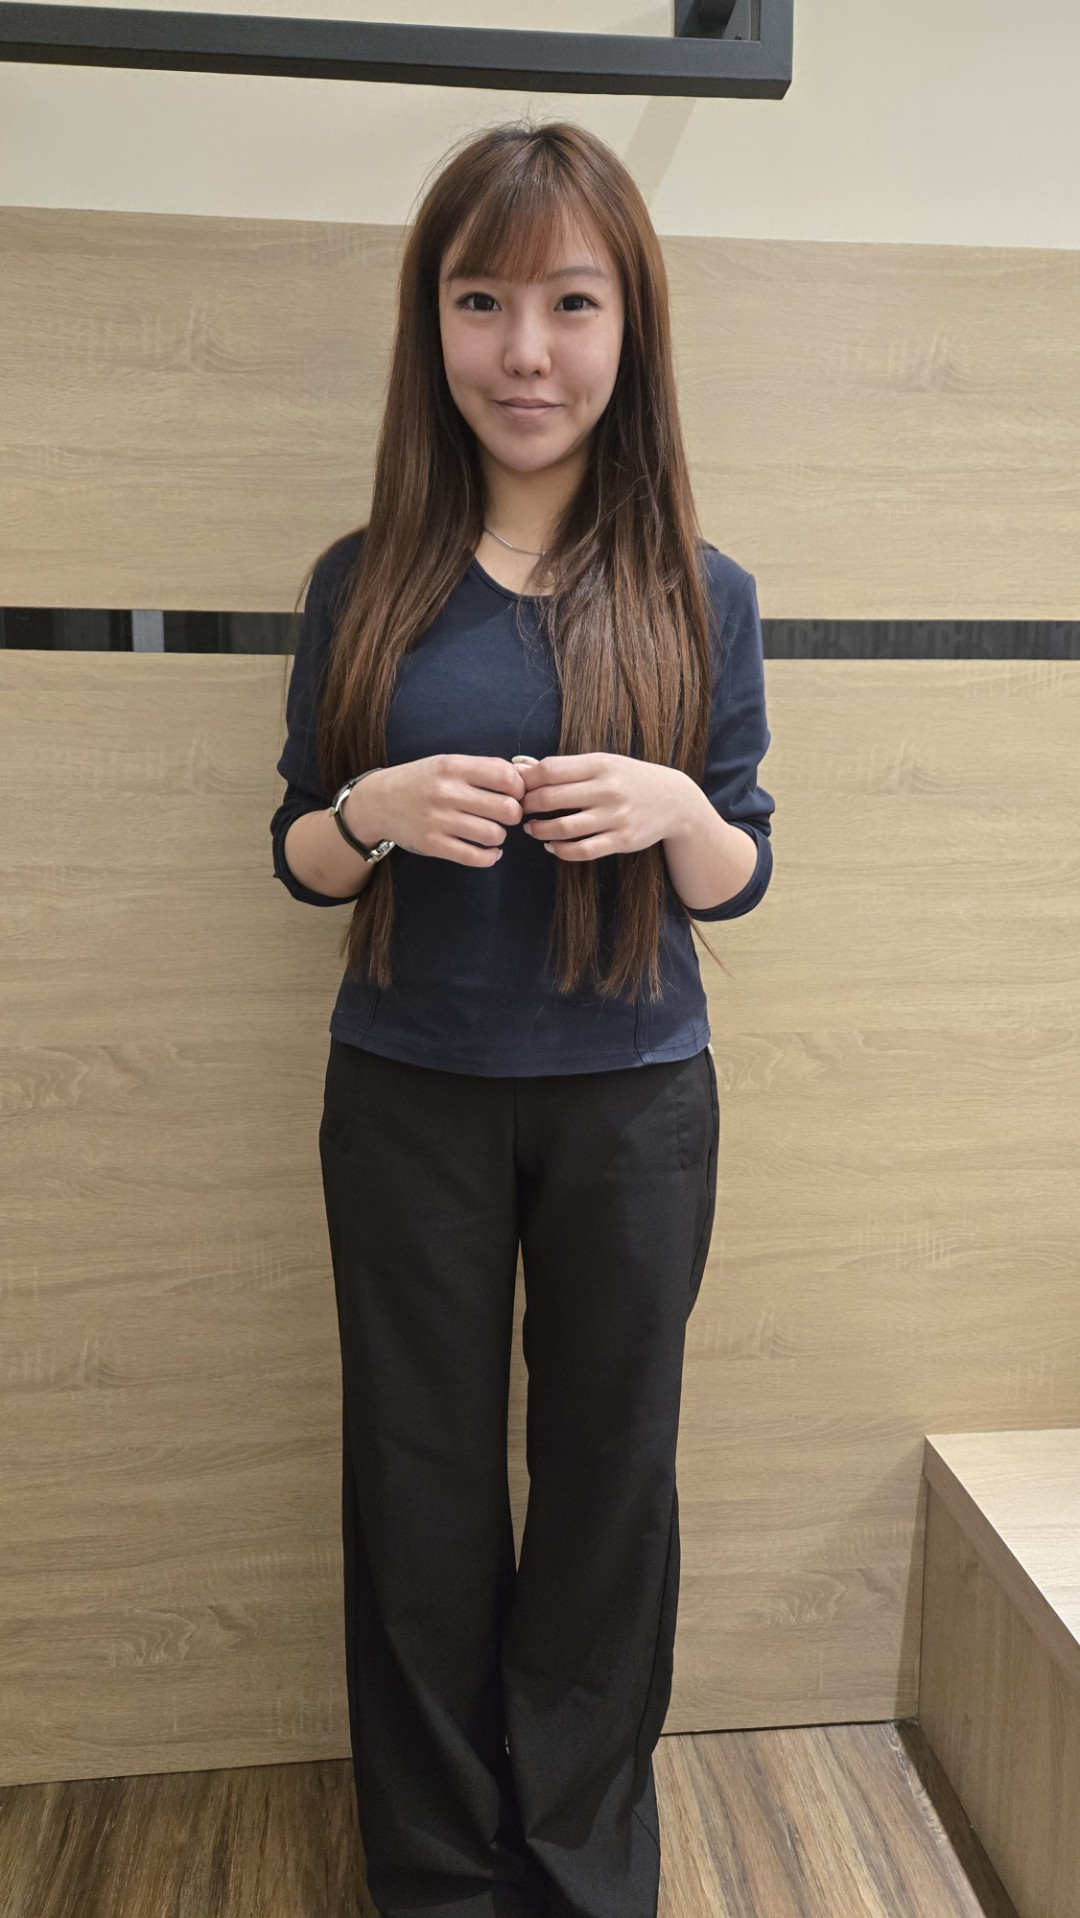
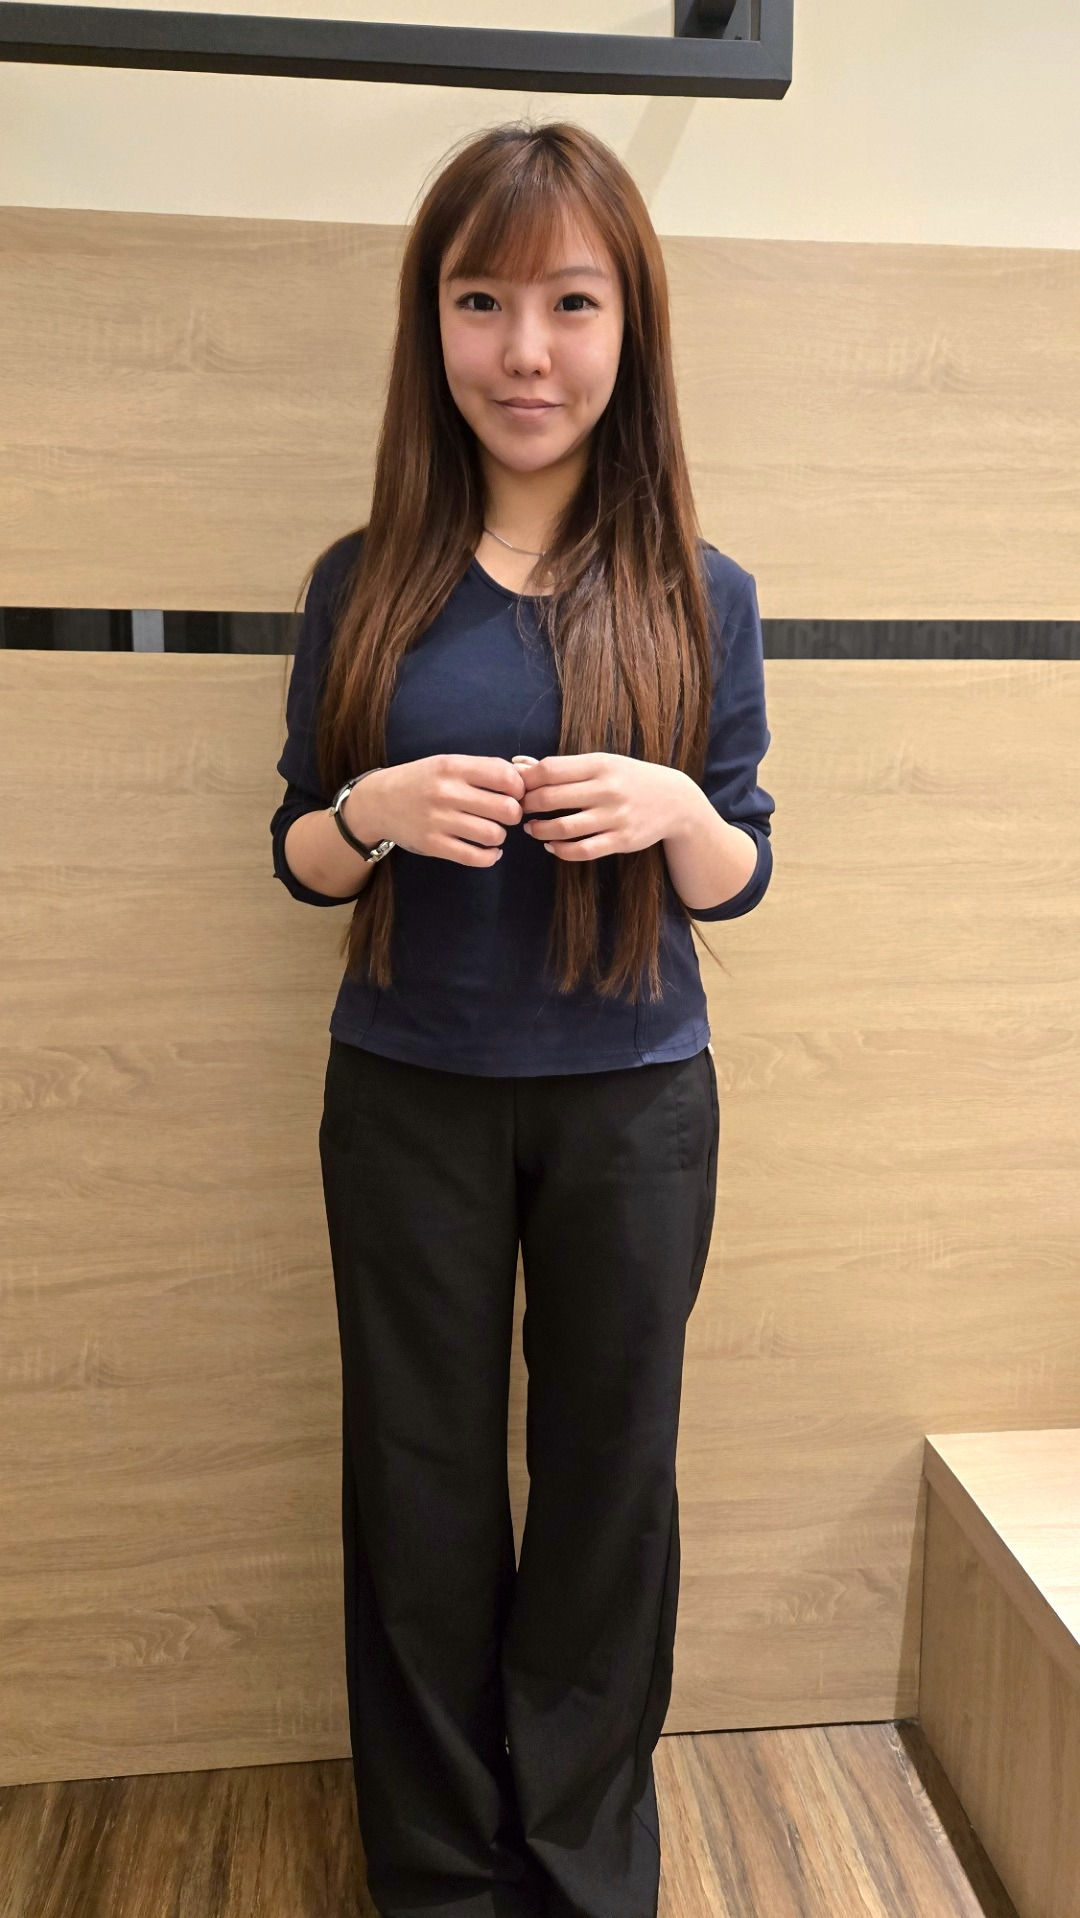
fix: real WhatsApp 85254835368, Glo Glo photos full-color + beautified (drop duotone on portraits)

diff --git a/src/pages/Home.tsx b/src/pages/Home.tsx
@@ -46,7 +46,7 @@ function mapDbProduct(p: {
  */
 
 // TODO: 換返 RedCode 真 WhatsApp 號碼
-const WHATSAPP_URL = 'https://wa.me/85200000000';
+const WHATSAPP_URL = 'https://wa.me/85254835368';
 const FACEBOOK_URL = 'https://www.facebook.com/redcodexhk';
 const FB_PAGE_PLUGIN =
   'https://www.facebook.com/plugins/page.php?href=https%3A%2F%2Fwww.facebook.com%2Fredcodexhk&tabs=timeline&small_header=false&adapt_container_width=true&hide_cover=false&show_facepile=true&locale=zh_HK';
@@ -305,8 +305,8 @@ export default function Home() {
         <div ref={picksRef} className="reveal">
           <SectionHeading en="Tonight's Picks" zh="今晚精選" />
           <div className="mt-8 grid gap-6 lg:grid-cols-2">
-            {/* 左：2×2 大卡 Glo Glo 著身圖（±旋轉浮卡處理） */}
-            <div className="duotone group relative overflow-hidden rounded-[20px] border" style={{ borderColor: 'var(--glass-border)' }}>
+            {/* 左：2×2 大卡 Glo Glo 著身圖（全彩，人像唔用 duotone） */}
+            <div className="group relative overflow-hidden rounded-[20px] border" style={{ borderColor: 'var(--glass-border)' }}>
               <img
                 src="/gloglo-3.jpg"
                 alt="Glo Glo 著身示範今晚精選款"
@@ -461,17 +461,17 @@ export default function Home() {
       {/* ============ 6. 品牌故事條 + Glo Glo 主播介紹 ============ */}
       <section className="mx-auto mt-16 max-w-[1280px] px-5 md:mt-24 md:px-8 xl:px-12">
         <div ref={storyRef} className="reveal grid items-center gap-10 lg:grid-cols-2">
-          {/* 左：Glo Glo 相片（duotone 進場上色） */}
+          {/* 左：Glo Glo 相片（全彩） */}
           <div className="grid grid-cols-2 gap-4">
             <DuotoneImage
-              reveal
+              off
               src="/gloglo-1.jpg"
               alt="主播 Glo Glo 直播造型一"
               wrapperClassName="rounded-2xl border"
               className="aspect-[4/5] w-full object-cover"
             />
             <DuotoneImage
-              reveal
+              off
               src="/gloglo-2.jpg"
               alt="主播 Glo Glo 直播造型二"
               wrapperClassName="mt-10 rounded-2xl border"
@@ -531,6 +531,7 @@ export default function Home() {
           ].map((photo) => (
             <DuotoneImage
               key={photo.src + photo.alt}
+              off
               src={photo.src}
               alt={photo.alt}
               wrapperClassName="w-56 shrink-0 rounded-2xl border md:w-64"

diff --git a/src/pages/About.tsx b/src/pages/About.tsx
@@ -13,8 +13,8 @@ import { useReveal } from '@/hooks/useReveal';
  */
 
 // TODO: 換返 RedCode 真 WhatsApp 號碼（brief：聯絡方法未能確認，用佔位先）
-const WHATSAPP_URL = 'https://wa.me/85200000000';
-const WHATSAPP_DISPLAY = '+852 0000 0000';
+const WHATSAPP_URL = 'https://wa.me/85254835368';
+const WHATSAPP_DISPLAY = '+852 5483 5368';
 const FACEBOOK_URL = 'https://www.facebook.com/redcodexhk';
 
 /* ---------- §P4 金色四角星（時間線節點） ---------- */
@@ -223,7 +223,7 @@ export default function About() {
               主播專區
             </h2>
             <p className="max-w-md text-sm leading-[1.6] text-txt-3">
-              直播入面嘅每一個造型，都係 Glo Glo 親自襯出嚟。hover 相片，等佢上返色。
+              直播入面嘅每一個造型，都係 Glo Glo 親自襯出嚟。
             </p>
           </div>
           <div className="mt-8 grid grid-cols-2 gap-4 md:grid-cols-3 md:gap-6">
@@ -238,6 +238,7 @@ export default function About() {
                 style={{ transitionDelay: `${Math.min(i * 80, 400)}ms` }}
               >
                 <DuotoneImage
+                  off
                   src={photo.src}
                   alt={photo.alt}
                   wrapperClassName="rounded-2xl border"

diff --git a/src/components/DuotoneImage.tsx b/src/components/DuotoneImage.tsx
@@ -9,16 +9,26 @@ import { cn } from '@/lib/utils';
 interface DuotoneImageProps extends ImgHTMLAttributes<HTMLImageElement> {
   /** 進入視窗即上色（唔使等 hover） */
   reveal?: boolean;
+  /** 關閉 duotone，全彩顯示（人像相用） */
+  off?: boolean;
   wrapperClassName?: string;
 }
 
 export default function DuotoneImage({
   reveal = false,
+  off = false,
   wrapperClassName,
   className,
   alt = '',
   ...imgProps
 }: DuotoneImageProps) {
+  if (off) {
+    return (
+      <div className={cn('overflow-hidden', wrapperClassName)}>
+        <img alt={alt} className={className} {...imgProps} />
+      </div>
+    );
+  }
   return (
     <div className={cn('duotone', reveal && 'duotone-reveal', wrapperClassName)}>
       <img alt={alt} className={className} {...imgProps} />

diff --git a/src/pages/Live.tsx b/src/pages/Live.tsx
@@ -12,7 +12,7 @@ import { useReveal } from '@/hooks/useReveal';
  */
 
 // TODO: 換返 RedCode 真 WhatsApp 號碼（brief：聯絡方法未能確認，用佔位先）
-const WHATSAPP_URL = 'https://wa.me/85200000000';
+const WHATSAPP_URL = 'https://wa.me/85254835368';
 const FACEBOOK_URL = 'https://www.facebook.com/redcodexhk';
 const FB_PAGE_PLUGIN =
   'https://www.facebook.com/plugins/page.php?href=https%3A%2F%2Fwww.facebook.com%2Fredcodexhk&tabs=timeline&small_header=false&adapt_container_width=true&hide_cover=false&show_facepile=true';

diff --git a/src/components/Navbar.tsx b/src/components/Navbar.tsx
@@ -11,7 +11,7 @@ import { useAuth } from '@/hooks/useAuth';
  */
 
 // TODO: 換返 RedCode 真 WhatsApp 號碼
-const WHATSAPP_URL = 'https://wa.me/85200000000';
+const WHATSAPP_URL = 'https://wa.me/85254835368';
 
 /** 員工內部系統（倉庫/HR，Render 託管） */
 const STAFF_SYSTEM_URL = 'https://red-code-wms.onrender.com/';

diff --git a/src/components/Footer.tsx b/src/components/Footer.tsx
@@ -7,7 +7,7 @@ import { Facebook, Instagram, MessageCircle } from 'lucide-react';
  */
 
 // TODO: 換返 RedCode 真 WhatsApp 號碼
-const WHATSAPP_URL = 'https://wa.me/85200000000';
+const WHATSAPP_URL = 'https://wa.me/85254835368';
 const FACEBOOK_URL = 'https://www.facebook.com/redcodexhk';
 
 export default function Footer() {

diff --git a/src/pages/Checkout.tsx b/src/pages/Checkout.tsx
@@ -23,7 +23,7 @@ import { getToken } from '@/lib/auth';
  */
 
 // TODO: 換返 RedCode 真 WhatsApp 號碼
-const WHATSAPP_URL = 'https://wa.me/85200000000';
+const WHATSAPP_URL = 'https://wa.me/85254835368';
 
 // TODO: 換返 RedCode 真收款資料（而家係佔位，上線前必換）
 const PAYMENT_METHODS = [

diff --git a/src/pages/ProductDetail.tsx b/src/pages/ProductDetail.tsx
@@ -32,7 +32,7 @@ import { cn } from '@/lib/utils';
  */
 
 // TODO: 換返 RedCode 真 WhatsApp 號碼
-const WHATSAPP_URL = 'https://wa.me/85200000000';
+const WHATSAPP_URL = 'https://wa.me/85254835368';
 
 export default function ProductDetail() {
   const { id } = useParams();

diff --git a/src/components/Layout.tsx b/src/components/Layout.tsx
@@ -12,7 +12,7 @@ import Footer from '@/components/Footer';
  */
 
 // TODO: 換返 RedCode 真 WhatsApp 號碼
-const WHATSAPP_URL = 'https://wa.me/85200000000';
+const WHATSAPP_URL = 'https://wa.me/85254835368';
 
 export default function Layout() {
   return (
